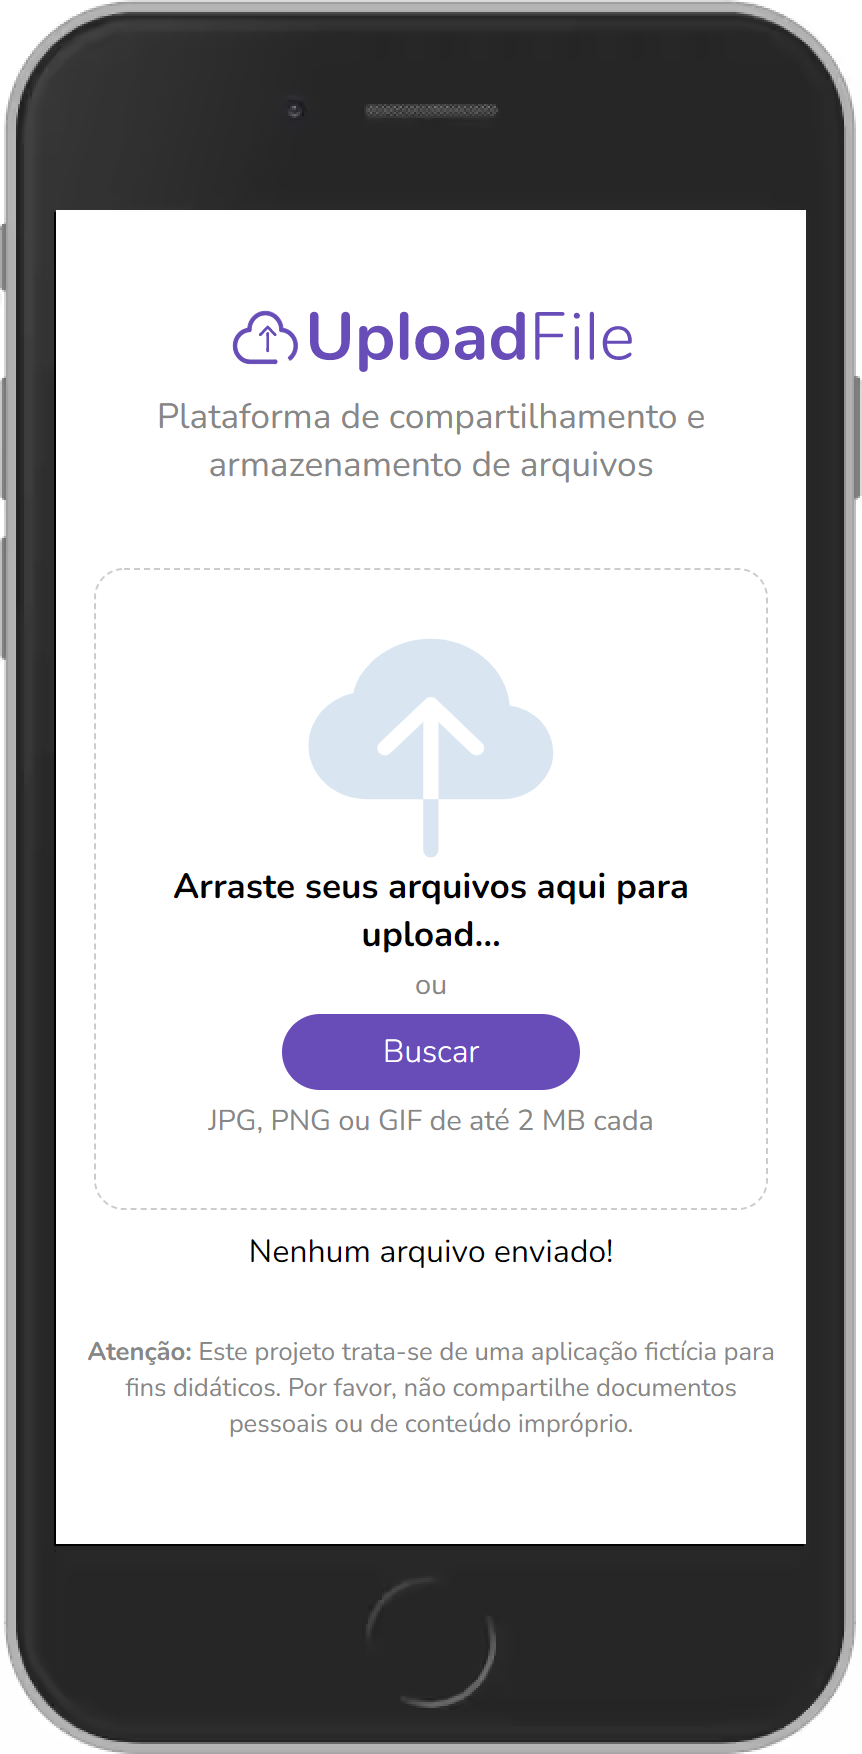
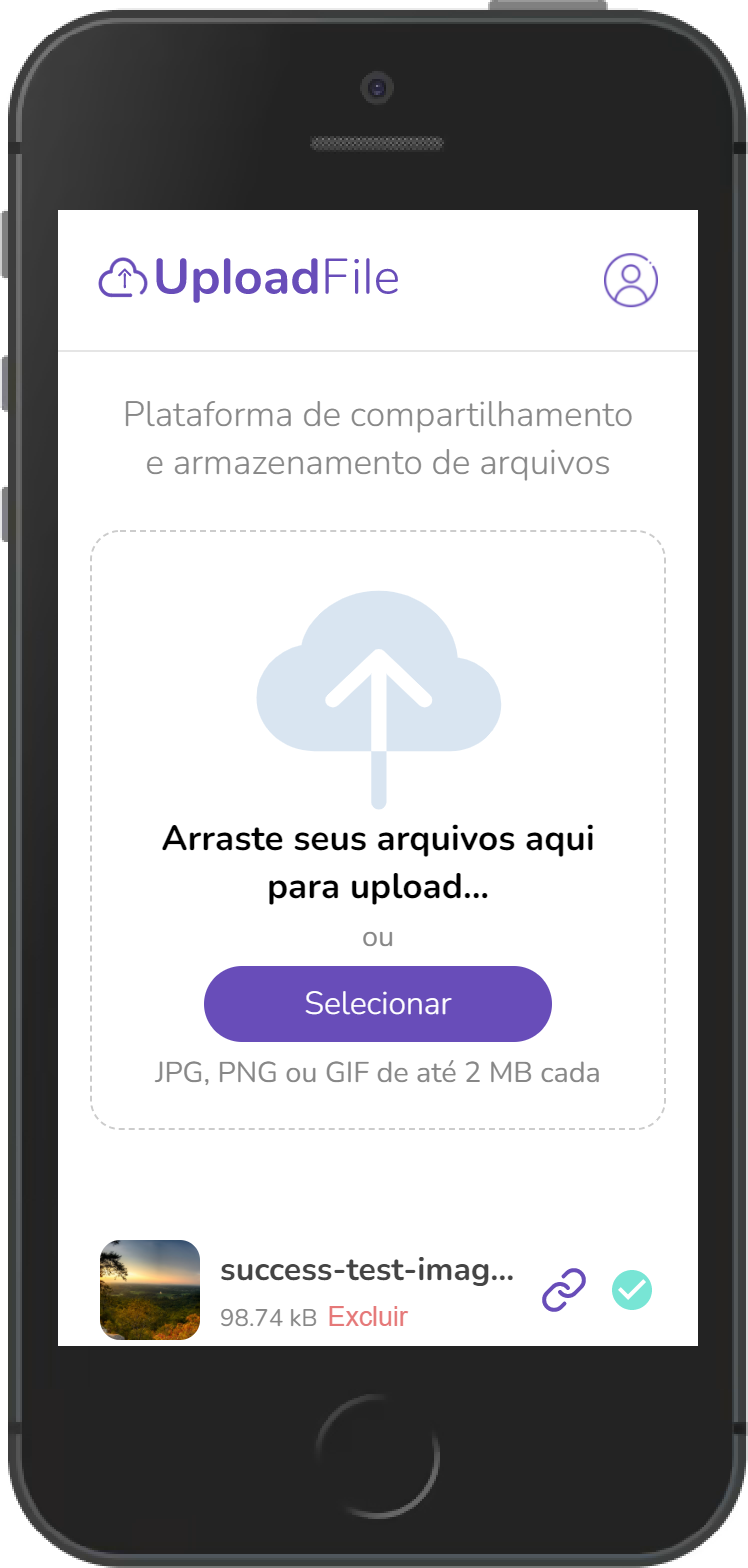
top bar redesign and mobile responsiveness

diff --git a/frontend/src/components/Header/styles.ts b/frontend/src/components/Header/styles.ts
@@ -1,24 +1,98 @@
 import styled from 'styled-components';
 
-export const Container = styled.div`
-  padding: 45px 5px;
+export const TopBar = styled.div`
+  width: 100%;
+  height: 100px;
   display: flex;
-  flex-direction: column;
+  justify-content: space-between;
+  align-items: center;
+  padding: 30px 8%;
+`;
+
+export const HeaderItems = styled.div`
+  height: 100%;
+  display: flex;
   align-items: center;
   justify-content: center;
-  text-align: center;
+  gap: 16px;
 
-  @media(max-width: 768px) {
-    padding: 50px 5px 20px;
+  @media(max-width: 600px) {
+    display: block;
+    width: 100%;
+    text-align: center;
+    margin-top: 120px;
+
+    ::before {
+      content: '';
+      position: absolute;
+      background: #FFF;
+      top: 0;
+      left: 0;
+      width: 100%;
+      height: 70px;
+      border-bottom: 0.5px solid rgba(0,0,0,0.1);
+    }
   }
 `;
 
 export const Logo = styled.img`
-  width: 200px;
+  width: 150px;
+
+  @media(max-width: 600px) {
+   position: absolute;
+    left: 20px;
+    top: 0px;
+    transform: translateY(100%);
+  }
 `;
 
-export const Text = styled.p`
+export const Separator = styled.div`
+  height: 65%;
+  border-left: 1px solid var(--lightGray);
+
+  @media(max-width: 600px) {
+    display: none;
+  }
+`;
+
+export const Title = styled.h1`
   font-size: 1.1em;
+  font-weight: 300;
   color: var(--gray);
-  padding: 10px;
+`;
+
+export const User = styled.div`
+  display: flex;
+  align-items: center;
+  cursor: pointer;
+
+  @media(max-width: 600px) {
+    position: absolute;
+    top: 0px;
+    transform: translateY(80%);
+    right: 20px;
+  }
+`;
+
+export const Avatar = styled.img`
+  width: 27px;
+  height: 27px;
+`;
+
+export const Name = styled.span`
+  font-style: normal;
+  font-weight: 600;
+  font-size: 14px;
+  line-height: 27px;
+  text-align: center;
+  color: var(--gray);
+  margin-left: 8px;
+  max-width: 150px;
+  white-space: nowrap;
+  overflow: hidden;
+  text-overflow: ellipsis;
+
+  @media(max-width: 600px) {
+    display: none;
+  }
 `;

diff --git a/frontend/src/App.tsx b/frontend/src/App.tsx
@@ -17,20 +17,20 @@ class App extends Component {
   };
 
   //list all files
-  // async componentDidMount() {
-  //   const response = await api.get('posts');
+  async componentDidMount() {
+    const response = await api.get('posts');
 
-  //   this.setState({
-  //     uploadedFiles: response.data.map(file => ({
-  //       id: file._id,
-  //       name: file.name,
-  //       readableSize: filesize(file.size),
-  //       preview: file.url,
-  //       uploaded: true,
-  //       url: file.url,
-  //     }))
-  //   })
-  // }
+    this.setState({
+      uploadedFiles: response.data.map(file => ({
+        id: file._id,
+        name: file.name,
+        readableSize: filesize(file.size),
+        preview: file.url,
+        uploaded: true,
+        url: file.url,
+      }))
+    })
+  }
 
   handleUpload = files => {
    const uploadedFiles = files.map(file => ({
@@ -112,7 +112,7 @@ class App extends Component {
 
         </Container>
         
-        <Footer><b>Atenção:</b> Este projeto trata-se de uma aplicação fictícia para fins didáticos. Por favor, não compartilhe documentos pessoais ou de conteúdo impróprio. </Footer>
+        <Footer><span><b>Atenção:</b> Este projeto trata-se de uma aplicação fictícia para fins didáticos. <br />Por favor, não compartilhe documentos pessoais ou de conteúdo impróprio.</span></Footer>
       </>
     );
   }

diff --git a/frontend/src/components/Header/index.tsx b/frontend/src/components/Header/index.tsx
@@ -1,12 +1,22 @@
 import React from 'react';
 
-import { Container, Logo, Text } from './styles';
+import { TopBar, HeaderItems, Separator, Logo, Title, User, Avatar, Name} from './styles';
 
 export const Header: React.FC = () => {
   return (
-    <Container>
-      <Logo src='./logo-upload-file.svg' alt="Upload File" />
-      <Text>Plataforma de compartilhamento e armazenamento de arquivos</Text>
-    </Container>
+    <>
+      <TopBar>
+        <HeaderItems>
+          <Logo src='./logo-upload-file.svg' alt="Upload File" />
+          <Separator />
+          <Title>Plataforma de compartilhamento e armazenamento de arquivos</Title>
+        </HeaderItems>
+        
+        <User>
+          <Avatar src='./avatar-user.svg' alt="Jeferson Fernandes"/>
+          <Name>Jeferson Fernandes</Name>
+        </User>
+      </TopBar>
+    </>
   );
 }

diff --git a/frontend/src/styles.ts b/frontend/src/styles.ts
@@ -1,18 +1,14 @@
 import styled from 'styled-components';
 
 export const Container = styled.div`
-  height: calc(100% - 200px);
+  height: calc(100% - 150px);
   display: grid;
   grid-template-columns: 50% 50%;
   grid-gap: 50px;
   justify-content: center;
   align-items: center;
-  padding: 0 10%;
+  padding: 10px 10%;
   
-  div {
-    height: 100%;
-  }
-
   @media(max-width: 768px) {
     display: block;
     height: auto;
@@ -28,10 +24,16 @@ export const Alert = styled.div`
 
 export const Footer = styled.div`
   text-align: center;
+  display: flex;
+  justify-content: center;
   font-size: 0.8em;
-  color: var(--gray);
+  color: rgba(0,0,0,.5);
 
   @media(max-width: 768px) {
     padding: 30px 10px;
+
+    br {
+      display: none;
+    }
   }
 `;

diff --git a/frontend/src/components/AreaOfUpload/styles.ts b/frontend/src/components/AreaOfUpload/styles.ts
@@ -33,6 +33,7 @@ interface DropContainerProps{
 
 export const DropContainer = styled.div.attrs({ className: 'dropzone'})<DropContainerProps>`
   width: 100%;
+  height: 425px;
   border: 1px dashed var(--lightGray); 
   border-radius: 15px;
   cursor: pointer;
@@ -50,6 +51,16 @@ export const DropContainer = styled.div.attrs({ className: 'dropzone'})<DropCont
   @media(min-width: 768px) {
     min-width: 375px;
     padding: 10% 20%;
+  }
+
+  @media(max-width: 600px) {
+    height: 300px;
+    margin-top: 50px;
+    margin-bottom: 20px;
+
+    > img { 
+      width: 80px;
+    }
   }
 `;
 

diff --git a/frontend/src/components/AreaOfUpload/index.tsx b/frontend/src/components/AreaOfUpload/index.tsx
@@ -38,7 +38,7 @@ export class AreaOfUpload extends Component<AreaOfUploadProps> {
               {this.renderDragMessage(isDragActive, isDragReject)}
     
               <Text>ou</Text>
-              <Button type='button'>Buscar</Button>
+              <Button type='button'>Selecionar</Button>
               <Text>JPG, PNG ou GIF de até 2 MB cada</Text>
             </DropContainer>
           )}

diff --git a/frontend/src/components/FileList/styles.ts b/frontend/src/components/FileList/styles.ts
@@ -6,10 +6,11 @@ export const Container = styled.ul`
   
   max-height: calc(100vh - 220px);
   overflow-Y: scroll;
+  overflow-X: hidden;
   padding: 20px;
 
   @media(min-width: 769px) {
-    max-width: 450px;
+    max-width: 500px;
   }
 
   @media(max-width: 768px) {
